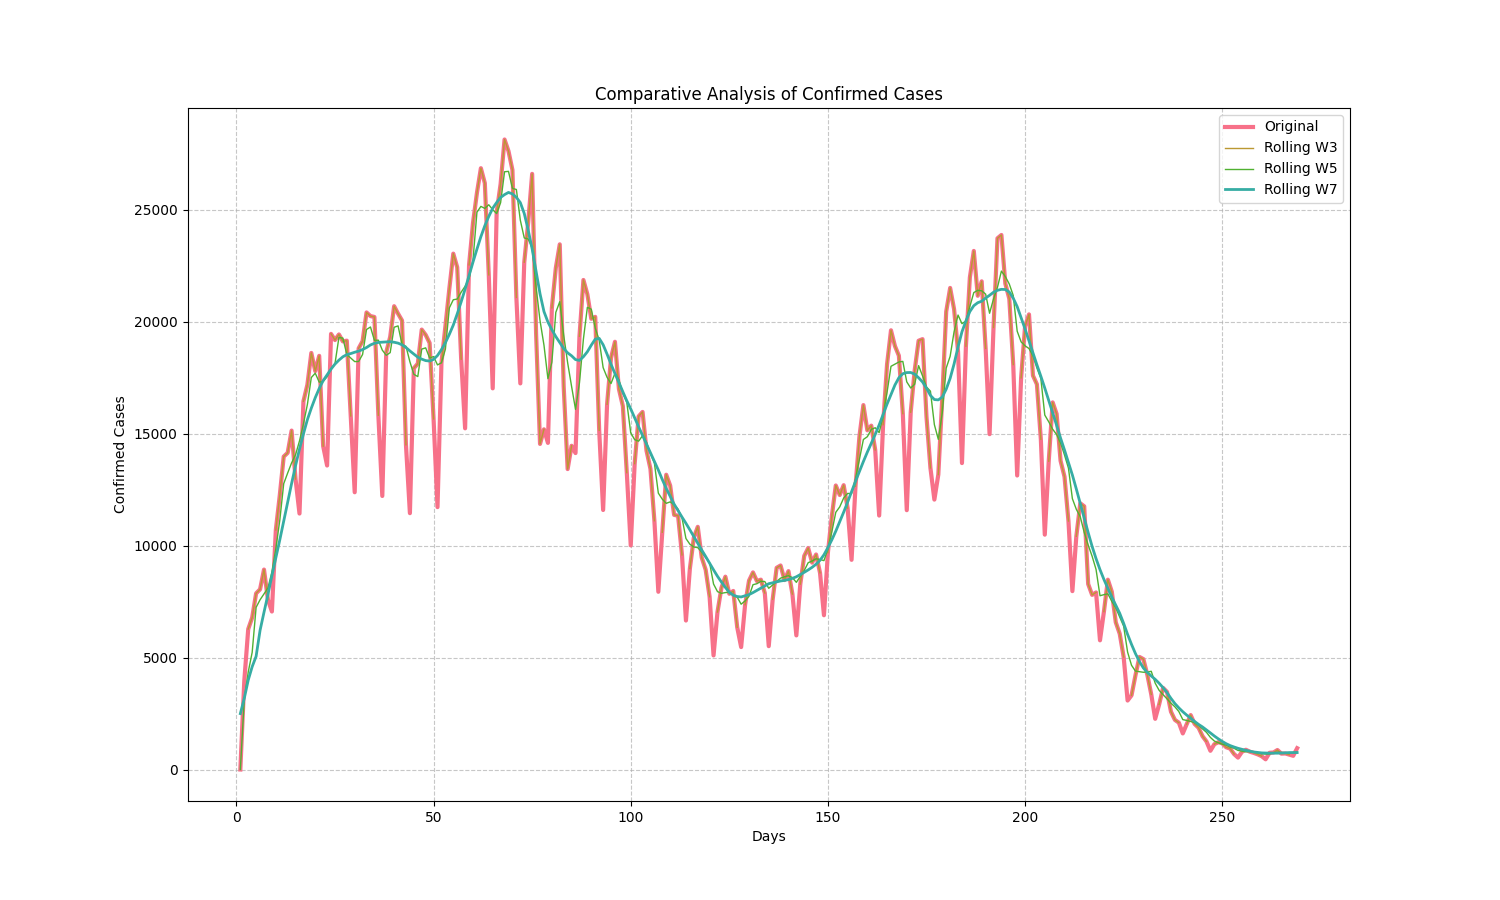
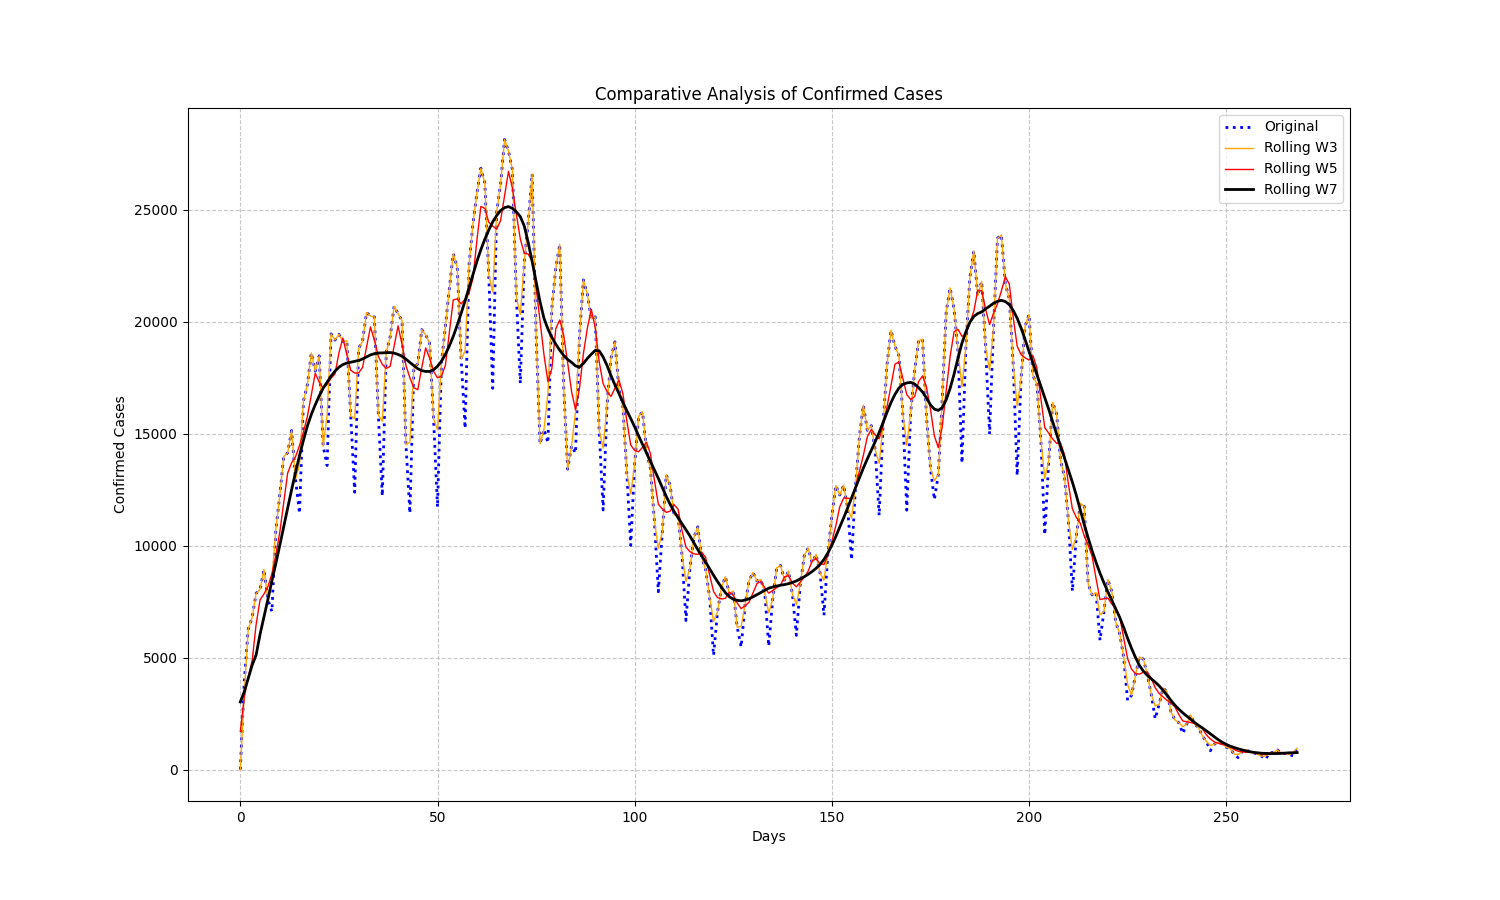
curve_fitting

diff --git a/objective_est_para.py b/objective_est_para.py
@@ -82,24 +82,33 @@ def seaifrd_model(t, contacts, initial_conditions,transmission_prob, total_popul
     print(solution)
     return solution#.y.flatten()
 
-def fit_seaifrd_model(t, initial_conditions,confirmed, recovered, death):
-    def objective(t, contacts, initial_conditions,transmission_prob, total_population, reducing_transmission,
-                  exposed_period, asymptomatic_period, infectious_period, isolated_period,
-                  prob_asymptomatic, prob_quarant_inf, test_asy, dev_symp, mortality_isolated, mortality_infected):
-        temp = seaifrd_model(t, contacts, initial_conditions,transmission_prob, total_population, reducing_transmission,
-                             exposed_period, asymptomatic_period, infectious_period,
-                             isolated_period, prob_asymptomatic,
-                             prob_quarant_inf, test_asy, dev_symp, mortality_isolated, mortality_infected)
-        return [temp.y[3],temp.y[5],temp.y[6]]
+def objective(t, contacts, initial_conditions, transmission_prob, total_population, reducing_transmission,
+              exposed_period, asymptomatic_period, infectious_period, isolated_period,
+              prob_asymptomatic, prob_quarant_inf, test_asy, dev_symp, mortality_isolated, mortality_infected):
+    temp = seaifrd_model(t, contacts, initial_conditions, transmission_prob, total_population, reducing_transmission,
+                         exposed_period, asymptomatic_period, infectious_period,
+                         isolated_period, prob_asymptomatic,
+                         prob_quarant_inf, test_asy, dev_symp, mortality_isolated, mortality_infected)
 
+    squared_diff = np.sum((df['n_confirmed'] - temp.y[3]) ** 2)
+    squared_diff += np.sum((df['n_recovered'] - temp.y[5]) ** 2)
+    squared_diff += np.sum((df['n_death'] - temp.y[6]) ** 2)
+    return squared_diff
 
-#
+def fit_seaifrd_model(t, initial_conditions, confirmed, recovered, death):
+    """Return SEAIFRD, the index position; 3 for confirmed, 5 for recovered, and 6 for dead"""
+
     # Initial parameter guesses
-    initial_guess = [1.0,initial_conditions, 0.1, 1000000, 0.859, 5, 14, 14, 21, 0.3, 0.5, 0.2, 0.1, 0.02, 0.01]
+    initial_guess = [1.0, initial_conditions, 0.1, 1000000, 0.859, 5, 14, 14, 21, 0.3, 0.5, 0.2, 0.1, 0.02, 0.01]
 
     # curve_fit to estimate parameters
-    params,_ = curve_fit(objective,t, np.concatenate([fit_seaifrd_model()]), p0=initial_guess)# since curve_fit is expecting target values ydata as a single array; and x=time
+    params, _ = curve_fit(objective, t, np.concatenate(df['n_confirmed', 'n_recovered', 'n_death']), p0=initial_guess)
 
+    return params
+
+def main_function(t, initial_conditions, confirmed, recovered, death):
+    params = fit_seaifrd_model(t, initial_conditions, confirmed, recovered, death)
+    # Perform any further operations with the obtained parameters or return them as needed
     return params
 
 # Estimate parameters

diff --git a/smoother.py b/smoother.py
@@ -61,15 +61,15 @@ sns.set_palette("husl")
 fig, ax = plt.subplots(figsize=(15, 9))
 
 # Plot the data with different line styles and colors
-ax.plot(df['days'], df['n_recovered'], label='Original', linestyle='-', linewidth=3)
-ax.plot(df['days'], smooth_sundays_rolling_ssm_w3_smt(df)['n_recovered'], label='Rolling W3', linestyle='-', linewidth=1)
-ax.plot(df['days'], smooth_sundays_rolling_w5_l(df)['n_recovered'], label='Rolling W5', linestyle='-', linewidth=1)
-ax.plot(df['days'], smooth_sundays_rolling_w7_l(df)['n_recovered'], label='Rolling W7', linestyle='-', linewidth=2)
+ax.plot(df['days'], df['n_confirmed'], label='Original', linestyle=':', linewidth=2, color='blue')
+ax.plot(df['days'], smooth_sundays_rolling_ssm_w3(df)['n_confirmed'], label='Rolling W3', linestyle='-', linewidth=1, color='orange')
+ax.plot(df['days'], smooth_sundays_rolling_w5_l(df)['n_confirmed'], label='Rolling W5', linestyle='-', linewidth=1, color= 'red')
+ax.plot(df['days'], smooth_sundays_rolling_w7_l(df)['n_confirmed'], label='Rolling W7', linestyle='-', linewidth=2, color='black')
 
 # Set axis labels and title
 ax.set_xlabel("Days")
-ax.set_ylabel("Recovered Cases")
-ax.set_title("Comparative Analysis of Recovered Cases")
+ax.set_ylabel("Confirmed Cases")
+ax.set_title("Comparative Analysis of Confirmed Cases")
 
 # Add gridlines
 ax.grid(True, linestyle='--', alpha=0.7)
@@ -78,7 +78,7 @@ ax.grid(True, linestyle='--', alpha=0.7)
 ax.legend(framealpha=0.8)
 
 # Save the figure
-#plt.savefig('o_w3-7_l_15_9_recovered')
+plt.savefig('o_w3-7_l_15_9_confirmed')
 
 # Display the plot
 plt.show()

diff --git a/iprocessor.py b/iprocessor.py
@@ -17,7 +17,7 @@ def add_day_name_column(df):
     return df
 #--------------------------------------
 def add_date_name_column(df):
-    df['days'] = pd.Series(range(1, len(df) + 1), index=df.index)
+    df['days'] = pd.Series(range(0, len(df)), index=df.index)#(range(1, len(df)+1)
     return df
 #--------------------------------------
 def smooth_sundays_ssmt(df):
